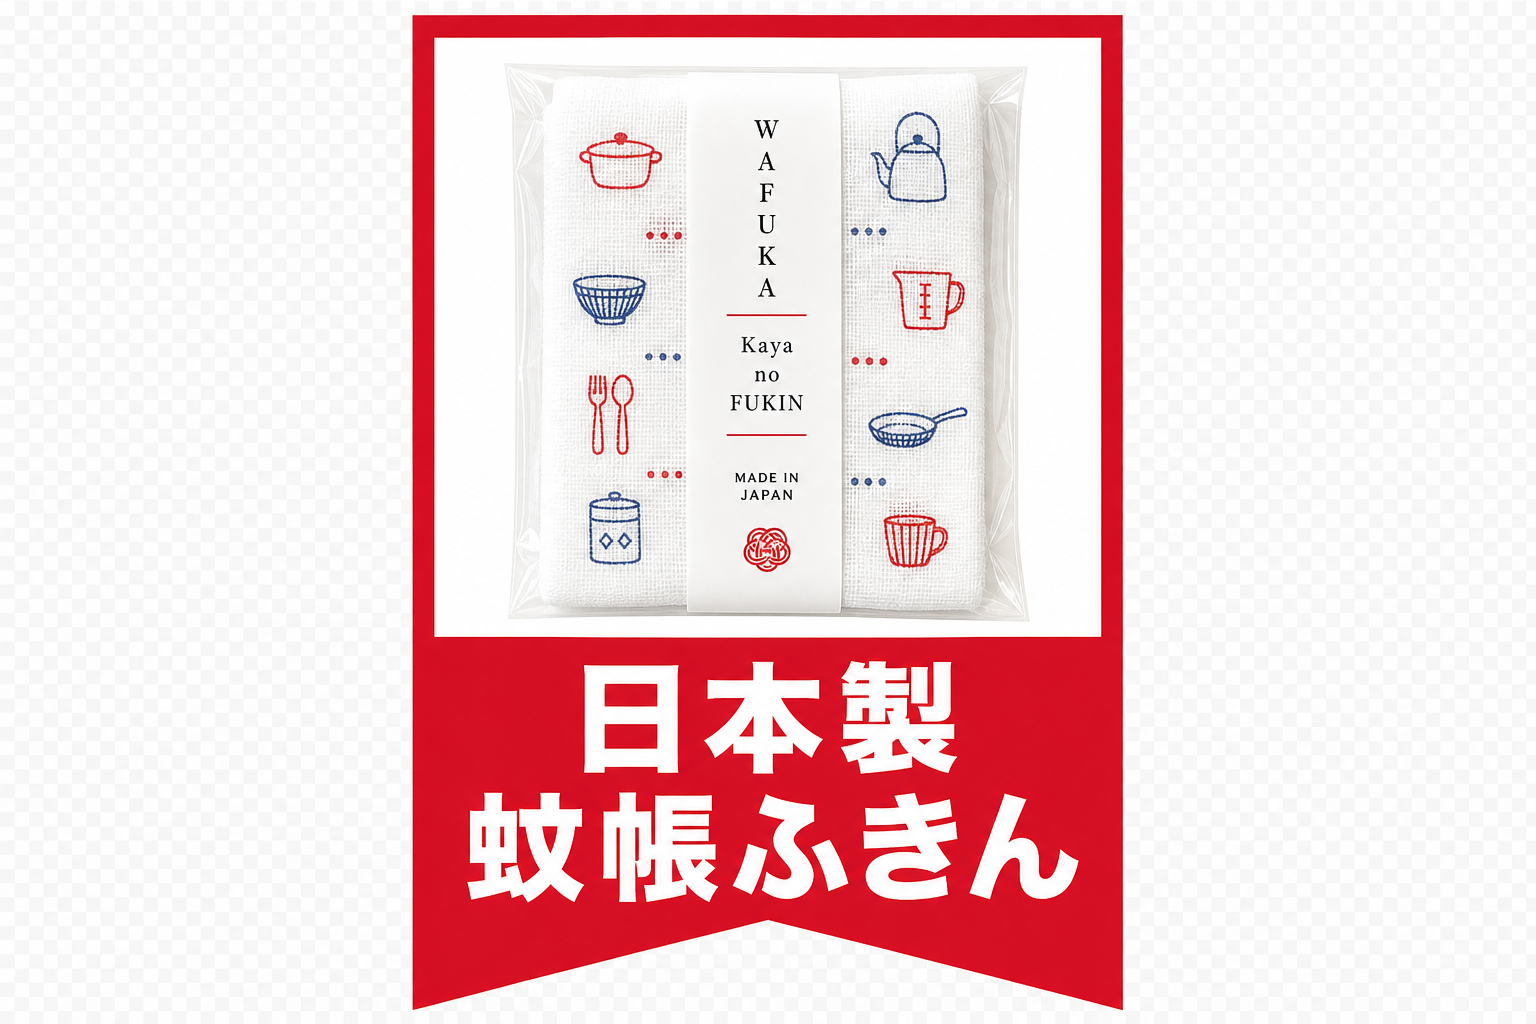
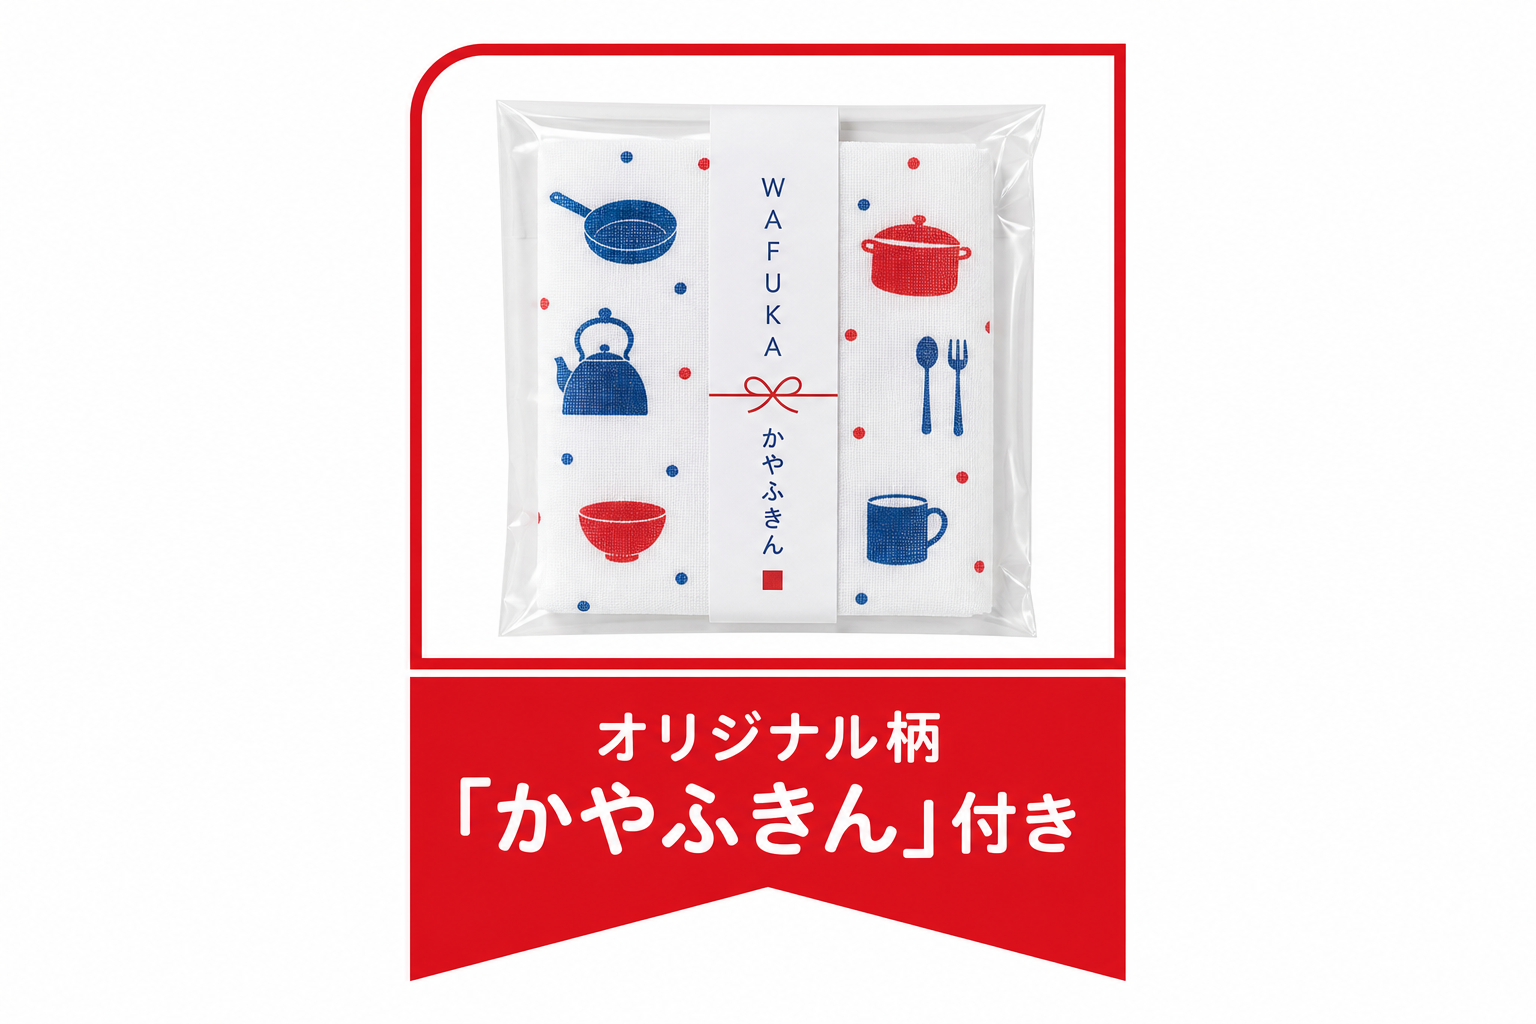
fix: remove outer white matte from promo badge only
Flood-fill from image edges removes the surrounding white square
while preserving internal whites (product area, labels). Badge
artwork unchanged; still adjustable via Promo badge layer.

Changed region(s): [[0.25, 0.0, 0.75, 1.0], [0.3125, 0.5, 0.3438, 0.5625], [0.3125, 0.1562, 0.3438, 0.1875]]

diff --git a/lib/remove-white-background.ts b/lib/remove-white-background.ts
@@ -113,3 +113,121 @@ export async function processLogoImage(
   const canvas = knockOutBlackBackground(source);
   return canvasToImage(canvas);
 }
+
+function isNeutralNearWhite(r: number, g: number, b: number): boolean {
+  const spread = Math.max(r, g, b) - Math.min(r, g, b);
+  return spread <= MAX_CHANNEL_SPREAD && Math.min(r, g, b) >= WHITE_THRESHOLD - 5;
+}
+
+/**
+ * Removes only the outer white matte connected to the image edges (flood fill).
+ * Internal whites (product area, labels) stay untouched.
+ */
+export function knockOutOuterWhiteBackground(
+  source: HTMLImageElement | HTMLCanvasElement,
+): HTMLCanvasElement {
+  const width = source.width;
+  const height = source.height;
+
+  const canvas = document.createElement("canvas");
+  canvas.width = width;
+  canvas.height = height;
+
+  const ctx = canvas.getContext("2d", { willReadFrequently: true });
+  if (!ctx) throw new Error("Canvas 2D not available.");
+
+  ctx.drawImage(source, 0, 0);
+  const imageData = ctx.getImageData(0, 0, width, height);
+  const { data } = imageData;
+
+  const total = width * height;
+  const outer = new Uint8Array(total);
+  const queue: number[] = [];
+
+  const tryPush = (x: number, y: number) => {
+    if (x < 0 || y < 0 || x >= width || y >= height) return;
+    const idx = y * width + x;
+    if (outer[idx]) return;
+    const i = idx * 4;
+    if (!isNeutralNearWhite(data[i], data[i + 1], data[i + 2])) return;
+    outer[idx] = 1;
+    queue.push(idx);
+  };
+
+  for (let x = 0; x < width; x++) {
+    tryPush(x, 0);
+    tryPush(x, height - 1);
+  }
+  for (let y = 0; y < height; y++) {
+    tryPush(0, y);
+    tryPush(width - 1, y);
+  }
+
+  let head = 0;
+  while (head < queue.length) {
+    const idx = queue[head++];
+    const x = idx % width;
+    const y = (idx / width) | 0;
+    tryPush(x - 1, y);
+    tryPush(x + 1, y);
+    tryPush(x, y - 1);
+    tryPush(x, y + 1);
+  }
+
+  for (let idx = 0; idx < total; idx++) {
+    if (!outer[idx]) continue;
+    const i = idx * 4;
+    data[i + 3] = 0;
+  }
+
+  ctx.putImageData(imageData, 0, 0);
+  return trimTransparentEdges(canvas);
+}
+
+/** Crops fully transparent margins after outer-white removal. */
+function trimTransparentEdges(
+  source: HTMLCanvasElement,
+): HTMLCanvasElement {
+  const ctx = source.getContext("2d", { willReadFrequently: true });
+  if (!ctx) return source;
+
+  const { width, height } = source;
+  const { data } = ctx.getImageData(0, 0, width, height);
+  const alphaThreshold = 8;
+
+  let minX = width;
+  let minY = height;
+  let maxX = 0;
+  let maxY = 0;
+
+  for (let y = 0; y < height; y++) {
+    for (let x = 0; x < width; x++) {
+      if (data[(y * width + x) * 4 + 3] > alphaThreshold) {
+        minX = Math.min(minX, x);
+        minY = Math.min(minY, y);
+        maxX = Math.max(maxX, x);
+        maxY = Math.max(maxY, y);
+      }
+    }
+  }
+
+  if (minX > maxX || minY > maxY) return source;
+
+  const cropW = maxX - minX + 1;
+  const cropH = maxY - minY + 1;
+  const out = document.createElement("canvas");
+  out.width = cropW;
+  out.height = cropH;
+  const outCtx = out.getContext("2d");
+  if (!outCtx) return source;
+  outCtx.drawImage(source, minX, minY, cropW, cropH, 0, 0, cropW, cropH);
+  return out;
+}
+
+/** Badge: preserve artwork, remove outer white matte only. */
+export async function processBadgeImage(
+  source: HTMLImageElement,
+): Promise<HTMLImageElement> {
+  const canvas = knockOutOuterWhiteBackground(source);
+  return canvasToImage(canvas);
+}

diff --git a/lib/bundle-image-cache.ts b/lib/bundle-image-cache.ts
@@ -1,4 +1,7 @@
-import { processProductImage } from "@/lib/remove-white-background";
+import {
+  processBadgeImage,
+  processProductImage,
+} from "@/lib/remove-white-background";
 import { BUNDLE_BADGE_SRC } from "@/lib/bundle-editor";
 
 const rawCache = new Map<string, HTMLImageElement>();
@@ -59,7 +62,7 @@ export function getCachedProductImage(
   return promise;
 }
 
-/** Promotional badge — full color artwork, no background stripping. */
+/** Promotional badge — outer white matte removed, artwork unchanged. */
 export function getCachedBadge(): Promise<HTMLImageElement> {
   const key = BUNDLE_BADGE_SRC;
   const cached = badgeCache.get(key);
@@ -68,6 +71,7 @@ export function getCachedBadge(): Promise<HTMLImageElement> {
   if (badgeLoadPromise) return badgeLoadPromise;
 
   badgeLoadPromise = loadRawImage(key)
+    .then(processBadgeImage)
     .then((img) => {
       badgeCache.set(key, img);
       badgeLoadPromise = null;